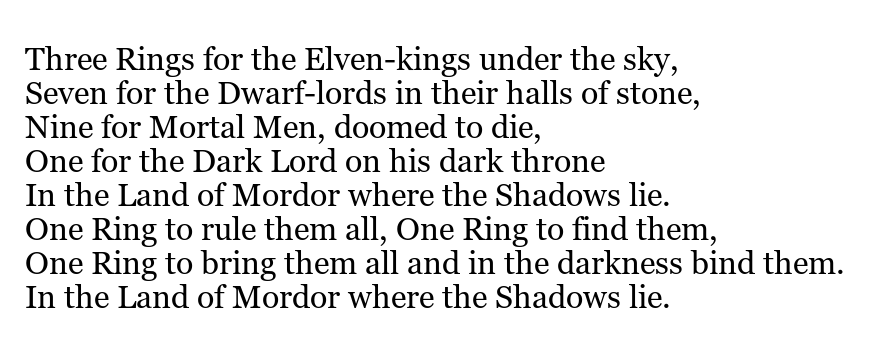
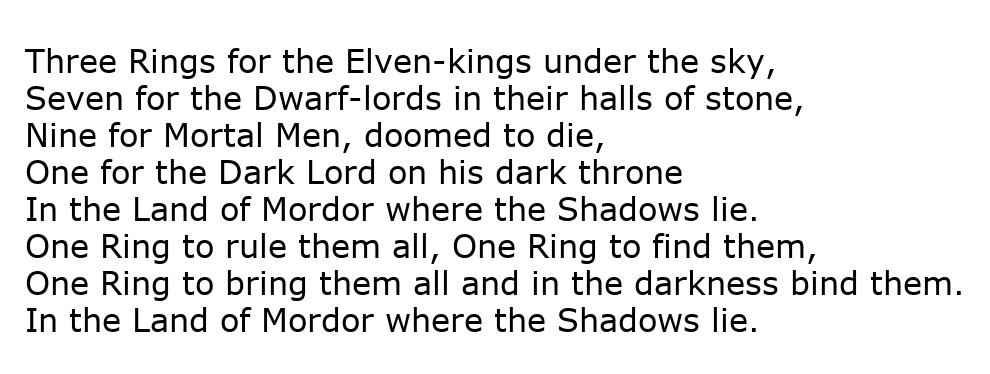
cleaned code

Changed region(s): [[0.0, 0.1243, 0.9621, 0.9011]]

diff --git a/lab9/ex2/ocr.py b/lab9/ex2/ocr.py
@@ -8,7 +8,7 @@ from utils import *
 
 def denoise(img):
     """
-        Returns denoised, color-reversed binary image.
+        Returns denoised <=> color-reversed binary image.
     """
     return to_binary(cv2.bitwise_not(img))
 
@@ -60,38 +60,41 @@ def match(img, template, threshold):
     """
         Returns indicies (row, col) of found matches.
     """
-    corr = cross_correlation(img / 255, template / 255)
-    to_filter = corr < threshold * \
-        max([np.max(corr), 0.95 * len(np.argwhere(template == 255))])
+    corr = cross_correlation(img, template)
+    max_corr = np.max(corr)
 
-    corr[to_filter] = 0
+    # corr /= max_corr
+    # threshold = max(threshold, min(1.0, 3.8 * white_pixels_density(template)))
+
+    threshold = threshold * max(max_corr, threshold * white_pixels(template))
+    corr[corr < threshold] = 0
 
     return peak_local_max(corr, indices=True)
 
 
-def ocr(img, fontname, threshold=.95):
+def ocr(img, fontname, threshold=.95, peek=False):
     """
-       ->> Optical Character Recognition <<-  
+       ->> Optical Character Recognition <<-
     """
     img = denoise(img)
     img = align(img)
+    img = normalize(img)
     h, w = img.shape
 
-    utils.peek(img)
+    if peek:
+        utils.peek(img)
     characters_dict = utils.load_characters(fontname)
 
     matched = [[None] * w for i in range(h)]
-    vals = np.zeros((h, w), dtype=np.float64)
 
-    sorted_chars = list(sorted(
-        characters_dict.keys(), key=lambda ch: -white_pixels(characters_dict[ch])))
-
+    templates = utils.load_characters(fontname)
     found_characters = np.zeros(img.shape, dtype=np.uint8)
     # FIXME -> This parameters might need adjustment!
     shift_x, shift_y = 5, 5
     counter = 0
-    for char in sorted_chars:
-        template = characters_dict[char]
+    for char, template in templates.items():
+        if counter == 0:
+            print(char)
         ch, cw = template.shape
         for row, col in match(img, template, threshold):
             taken = False
@@ -109,7 +112,8 @@ def ocr(img, fontname, threshold=.95):
                 matched[row - ch][col - cw] = char
                 counter += 1
 
-    utils.peek(found_characters)
+    if peek:
+        utils.peek(found_characters)
 
     text = ''
     for j in range(h):
@@ -120,9 +124,10 @@ def ocr(img, fontname, threshold=.95):
     return text
 
 
+# verdana and georgia work greate.. Times adds dots at the begginging for some reason
 if __name__ == "__main__":
-    img, actual_text = utils.convert_textfile('lotr', 'georgia')
-    matched_text = ocr(img, 'georgia')
+    img, actual_text = utils.convert_textfile('lotr', 'verdana')
+    matched_text = ocr(img, 'verdana')
     print(actual_text)
     print(matched_text)
     print(utils.measure_correctness(matched_text, actual_text))

diff --git a/lab9/ex2/utils.py b/lab9/ex2/utils.py
@@ -81,14 +81,29 @@ def character_img(chr, fontname):
 
 def load_characters(fontname):
     """
-        Loads images of characters into dictionary.
-        Note that they're already color-reversed and converted to binary images!
-    """
-    imgs = {}
-    for chr in CHARACTERS:
-        imgs[chr] = cv2.bitwise_not(to_binary(character_img(chr, fontname)))
+        Loads images of characters into dictionary,
+        and returns sorted dictionary based on amount of white pixels.
 
-    return imgs
+        Note that they're already color-reversed and converted to binary images!
+
+        The idea here is that larger templates (containing more white pixels)
+        might have smaller templates inside of them for example e and c or T and I.
+        To avoid mismatch we first check bigger ones!
+
+    """
+    templates = {}
+    for chr in CHARACTERS:
+        template = cv2.bitwise_not(
+            to_binary(character_img(chr, fontname)))
+        templates[chr] = normalize(template)
+
+    def sort_by(item): return -white_pixels(item[1])
+    # def sort_by(item): return -white_pixels_density(item[1])
+
+    templates = {k: v for (k, v) in sorted(
+        templates.items(), key=sort_by)}
+
+    return templates
 
 
 def measure_correctness(matched_text, actual_text):
@@ -100,6 +115,10 @@ def measure_correctness(matched_text, actual_text):
 
 def to_binary(img):
     return cv2.threshold(img, 0, 255, cv2.THRESH_BINARY | cv2.THRESH_OTSU)[1]
+
+
+def normalize(img):
+    return img / 255
 
 
 def peek(img):
@@ -115,7 +134,7 @@ def img_size(img):
 
 
 def white_pixels(img):
-    return len(np.argwhere(img == 255))
+    return np.count_nonzero(img == 1)
 
 
 def white_pixels_density(img):
